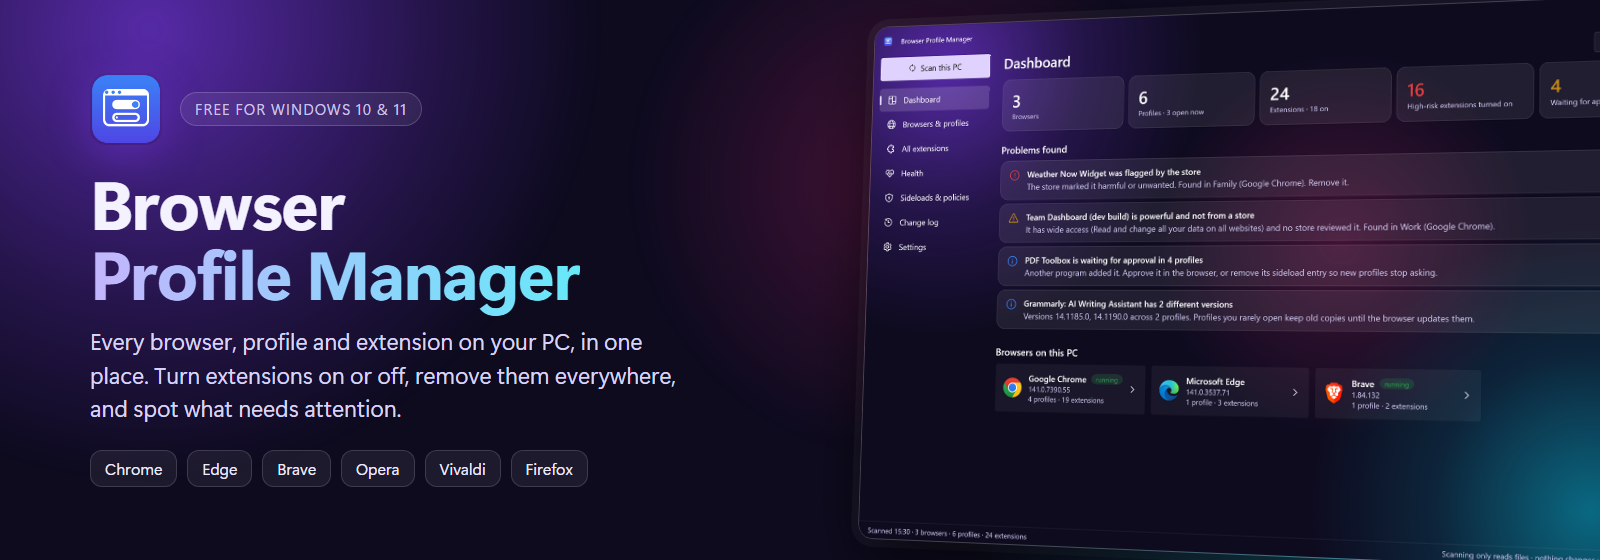
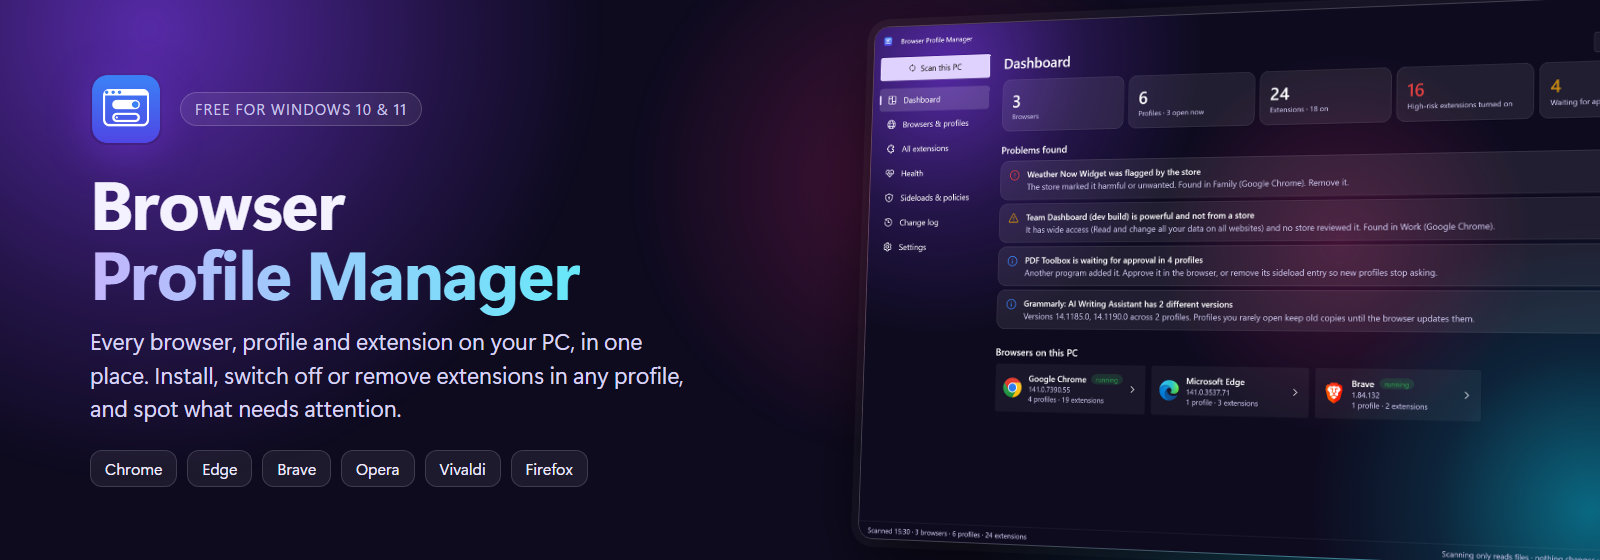
README: make installing a headline feature
- Six feature cards, with "Install anywhere" and "New profiles in seconds"
  as their own cards; intro line mentions installing.
- Gallery of eight: new Install window and Settings screenshots.
- Banner and social preview tagline mention installing.
- Demo mode shows a made-up app data path; default version 1.1.0.

Changed region(s): [[0.0938, 0.6375, 0.4375, 0.6982]]

diff --git a/src/BPM.App/ViewModels/SettingsViewModel.cs b/src/BPM.App/ViewModels/SettingsViewModel.cs
@@ -21,7 +21,9 @@ public sealed partial class SettingsViewModel : ObservableObject
     }
 
     public IReadOnlyList<string> Themes { get; } = ["System", "Light", "Dark"];
-    public string DataFolder => AppPaths.DataDir;
+    /// <summary>Where the app keeps its files. Demo mode shows the made-up user's usual path instead of its temp folder,
+    /// so screenshots and videos don't show the real Windows user name.</summary>
+    public string DataFolder => DemoMode.IsOn ? @"C:\Users\alex\AppData\Local\BrowserProfileManager" : AppPaths.DataDir;
     public string VersionText => $"Version {Assembly.GetEntryAssembly()?.GetName().Version?.ToString(3) ?? "1.0.0"}";
 
     [ObservableProperty] private string theme;

diff --git a/README.md b/README.md
@@ -11,9 +11,9 @@
 </p>
 
 <p align="center">
-  <b>Too many browser profiles? Extensions you forgot about?</b><br>
+  <b>Too many browser profiles? Extensions you forgot about? Need the same extension in ten profiles?</b><br>
   Browser Profile Manager finds every browser on your PC, every profile in each one and every extension in each profile,<br>
-  then lets you sort them out from one window.
+  then lets you install, switch off, remove and tidy them up from one window.
 </p>
 
 <p align="center">
@@ -32,23 +32,35 @@
       every extension with its permissions in plain English and a risk level.
     </td>
     <td width="50%" valign="top">
-      <h3>Manage extensions anywhere</h3>
-      Install an extension in the profiles you pick, from the Chrome Web Store, a folder or a <code>.crx</code> file.
-      Turn it on or off, or remove it, in one profile or in every profile at once. Block one in every profile of a
-      browser, or reset an extension's data.
+      <h3>Install anywhere</h3>
+      <b>New in 1.1.</b> Pick an extension, tick the profiles, done: from a Chrome Web Store link, an extension folder
+      or a <code>.crx</code> file, into any profile of any Chromium browser. Developer mode is turned on for you
+      where a folder needs it.
     </td>
   </tr>
   <tr>
+    <td width="50%" valign="top">
+      <h3>Switch off or remove everywhere</h3>
+      Turn an extension on or off, or remove it, in one profile or in every profile at once. Block one in every profile
+      of a browser with a single click, or reset an extension's data to sign it out.
+    </td>
     <td width="50%" valign="top">
       <h3>Keep profiles healthy</h3>
       The Health page shows accounts that need signing in again, profiles that aren't signed in or haven't been used
       in months, broken browser links left by uninstalled programs, and why a browser says
       "Managed by your organization".
     </td>
+  </tr>
+  <tr>
+    <td width="50%" valign="top">
+      <h3>New profiles in seconds</h3>
+      Create a named profile in any Chromium browser, open any profile directly, and put a desktop shortcut to it on
+      your desktop.
+    </td>
     <td width="50%" valign="top">
       <h3>Undo anything</h3>
-      Every change goes into a change log with one-click undo. Create new named profiles and desktop shortcuts, and
-      export a report of a PC as a web page, spreadsheet or JSON, with emails hidden if you like.
+      Every change goes into a change log with one-click undo. Export a report of a PC as a web page, spreadsheet or
+      JSON, with emails hidden if you like.
     </td>
   </tr>
 </table>
@@ -58,27 +70,35 @@
 <table>
   <tr>
     <td><img src="docs/images/dashboard.png" alt="Dashboard with counters, problems found and browser cards"></td>
-    <td><img src="docs/images/profiles.png" alt="Browsers and profiles, with a profile's extensions and the details of one extension"></td>
+    <td><img src="docs/images/install.png" alt="Install an extension: a Chrome Web Store link, with three Chrome profiles ticked"></td>
   </tr>
   <tr>
     <td align="center"><sub><b>Dashboard</b>: counts, problems found and every browser on the PC</sub></td>
-    <td align="center"><sub><b>Browsers &amp; profiles</b>: each profile's extensions, with actions and details</sub></td>
+    <td align="center"><sub><b>Install an extension</b>: pick it, tick the profiles, install</sub></td>
   </tr>
   <tr>
-    <td><img src="docs/images/health.png" alt="Health page grouped into accounts, profiles, browser links and policies"></td>
+    <td><img src="docs/images/profiles.png" alt="Browsers and profiles, with a profile's extensions and the details of one extension"></td>
     <td><img src="docs/images/all-extensions.png" alt="All extensions, each listed once with every profile it's installed in"></td>
   </tr>
   <tr>
-    <td align="center"><sub><b>Health</b>: what needs attention, with a button to fix it</sub></td>
+    <td align="center"><sub><b>Browsers &amp; profiles</b>: each profile's extensions, with actions and details</sub></td>
     <td align="center"><sub><b>All extensions</b>: each extension once, across every profile</sub></td>
   </tr>
   <tr>
+    <td><img src="docs/images/health.png" alt="Health page grouped into accounts, profiles, browser links and policies"></td>
     <td><img src="docs/images/sideloads.png" alt="Sideloads and policies: programs that push extensions into browsers, and browser policies"></td>
-    <td><img src="docs/images/change-log.png" alt="Change log with undo"></td>
   </tr>
   <tr>
+    <td align="center"><sub><b>Health</b>: what needs attention, with a button to fix it</sub></td>
     <td align="center"><sub><b>Sideloads &amp; policies</b>: programs that push extensions into your browsers</sub></td>
+  </tr>
+  <tr>
+    <td><img src="docs/images/change-log.png" alt="Change log with undo"></td>
+    <td><img src="docs/images/settings.png" alt="Settings: theme, scan on start, hide emails in reports"></td>
+  </tr>
+  <tr>
     <td align="center"><sub><b>Change log</b>: every change, with undo</sub></td>
+    <td align="center"><sub><b>Settings</b>: light, dark or system theme, and privacy options</sub></td>
   </tr>
 </table>
 
@@ -88,15 +108,15 @@
 
 | Browser | Profiles and extensions | Install | On / off and remove | Block in every profile | New profile |
 |---|:---:|:---:|:---:|:---:|:---:|
-| Google Chrome (Stable, Beta, Dev, Canary) | ✓ | ✓ | ✓ | ✓ | ✓ |
-| Microsoft Edge (all channels) | ✓ | ✓¹ | ✓ | ✓ | ✓ |
-| Brave | ✓ | ✓ | ✓ | ✓ | ✓ |
-| Opera, Opera GX | ✓ | folders² | ✓ | Opera | ✓ |
-| Vivaldi, Chromium, Comet, Cốc Cốc, Yandex, Thorium | ✓ | ✓ | ✓ | Chromium, Comet | ✓ |
-| Arc | ✓ | in the browser | in the browser | — | — |
-| Firefox, LibreWolf, Waterfox, Zen, Floorp | ✓ | in the browser | in the browser | — | — |
+| Google Chrome (Stable, Beta, Dev, Canary) | âœ“ | âœ“ | âœ“ | âœ“ | âœ“ |
+| Microsoft Edge (all channels) | âœ“ | âœ“Â¹ | âœ“ | âœ“ | âœ“ |
+| Brave | âœ“ | âœ“ | âœ“ | âœ“ | âœ“ |
+| Opera, Opera GX | âœ“ | foldersÂ² | âœ“ | Opera | âœ“ |
+| Vivaldi, Chromium, Comet, Cá»‘c Cá»‘c, Yandex, Thorium | âœ“ | âœ“ | âœ“ | Chromium, Comet | âœ“ |
+| Arc | âœ“ | in the browser | in the browser | â€” | â€” |
+| Firefox, LibreWolf, Waterfox, Zen, Floorp | âœ“ | in the browser | in the browser | â€” | â€” |
 
-<sub>¹ Chrome Web Store installs in Edge need "Allow extensions from other stores" clicked once. ² Opera installs
+<sub>Â¹ Chrome Web Store installs in Edge need "Allow extensions from other stores" clicked once. Â² Opera installs
 from the Chrome Web Store only with its own helper add-on; extension folders work.</sub>
 
 ## Install
@@ -161,7 +181,7 @@ on. Sideloads &amp; policies shows which program it is, and <b>Remove entry</b> 
 Requirements: .NET 10 SDK and Inno Setup 6 (`winget install Microsoft.DotNet.SDK.10`, `winget install JRSoftware.InnoSetup`).
 
 ```powershell
-.\build.ps1                  # tests, self-contained exe, portable zip, installer → artifacts\
+.\build.ps1                  # tests, self-contained exe, portable zip, installer â†’ artifacts\
 .\build.ps1 -Version 1.1.0
 ```
 
@@ -189,7 +209,7 @@ Chromium browsers protect each profile's extension switches with a tamper check,
 It changes extensions only through routes the browsers support, tested on a real Chrome install
 (see [docs/M1-FINDINGS.md](docs/M1-FINDINGS.md)):
 
-1. **One profile**: opens a new window of that profile, puts `chrome://extensions/?id=…` in its address bar (browsers
+1. **One profile**: opens a new window of that profile, puts `chrome://extensions/?id=â€¦` in its address bar (browsers
    refuse internal pages from the command line), presses Enter only when the address bar has focus, confirms the window
    belongs to the right profile, then flips the switch (`enableToggle`) through Windows UI Automation.
 2. **All profiles**: the browser's `ExtensionSettings` policy in HKLM (per-user policies are ignored on PCs that aren't
@@ -201,4 +221,4 @@ It changes extensions only through routes the browsers support, tested on a real
 
 ## Licence
 
-[MIT](LICENSE) © 2026 Naman
+[MIT](LICENSE) Â© 2026 Naman
